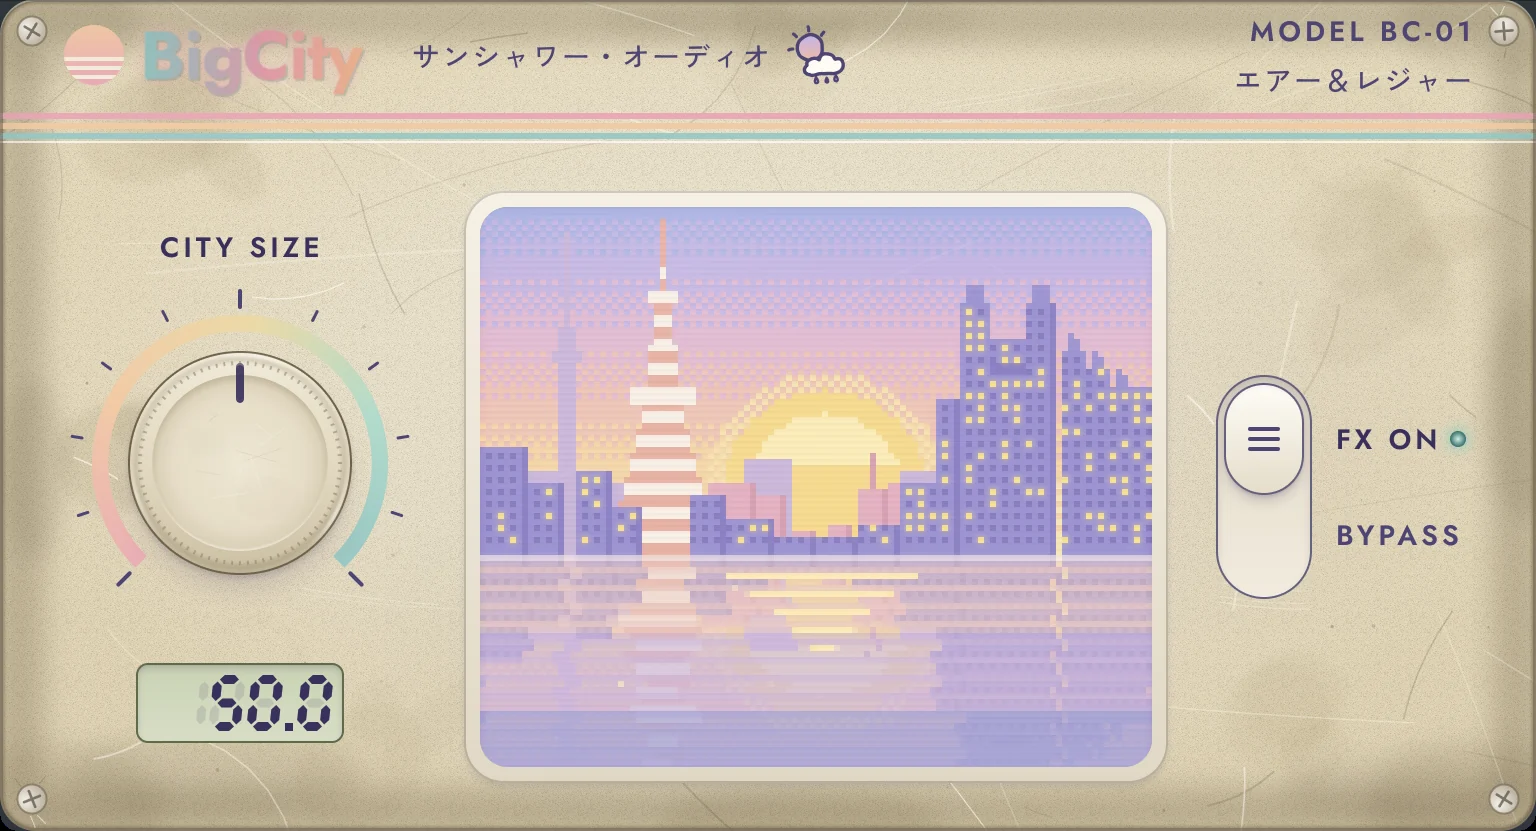
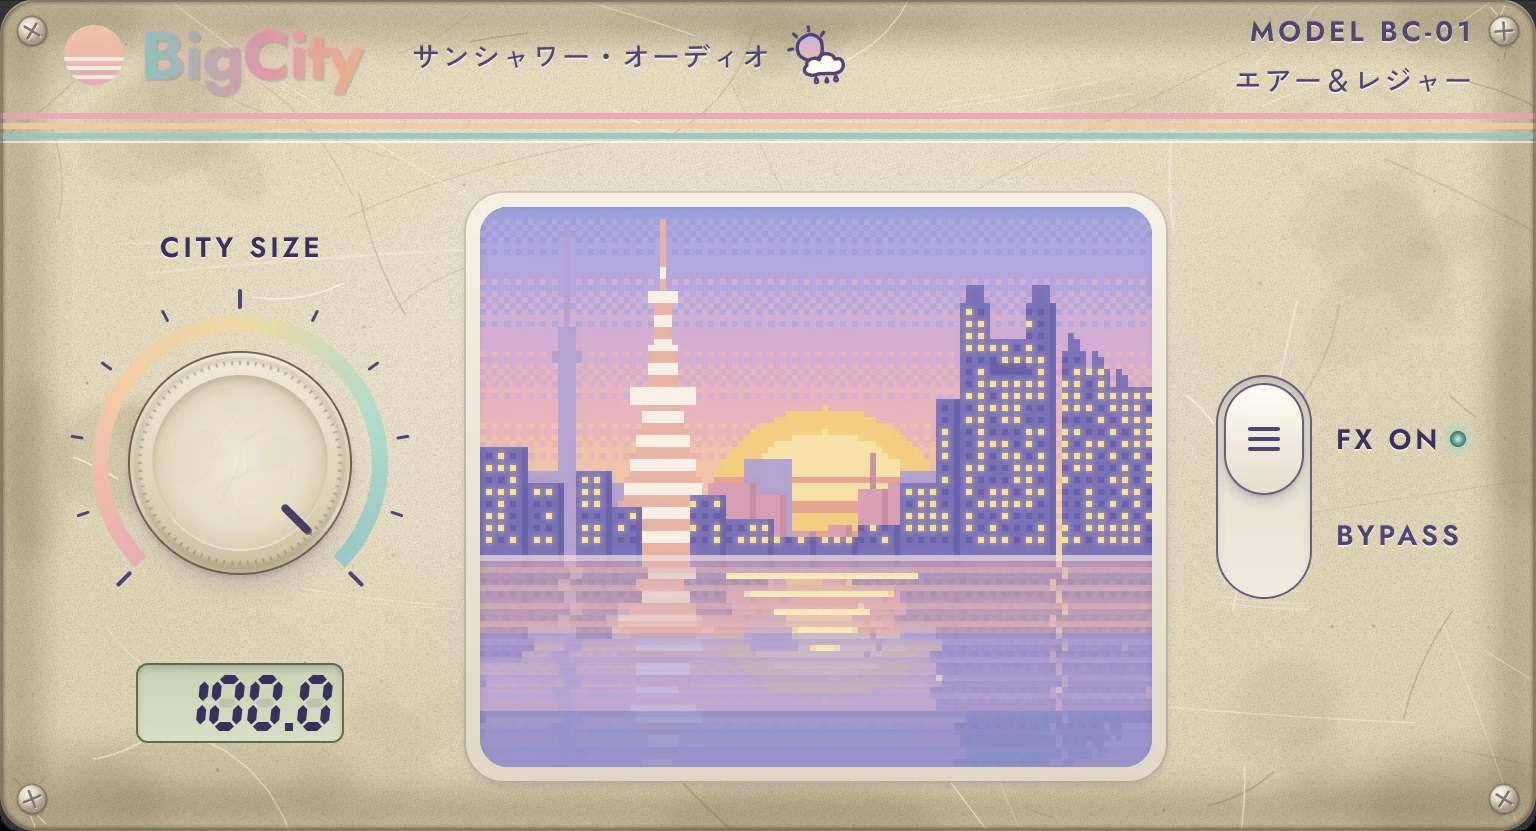
BigCity 1.1: knob-response chart, tuning rounds, 1.1 screenshot, 135 tests, Vaperror quote; diagram no longer claims de-essing
Claude-Session: https://claude.ai/code/session_013QhMjwoRSaqU5W5hH2ffq1

diff --git a/src/content/work/bigcity.md b/src/content/work/bigcity.md
@@ -37,7 +37,7 @@ Music production is complex at every layer: the idea, the sound design, the soft
 If a track sounds dull and I want it to shine a bit more, it can take 3–4 plugins and 10+ knobs for one texture. The CPU adds up on older laptops, some of those plugins are $100–200, and by the time it sounds right the momentum I had is gone. Slate Digital's [Fresh Air](https://slatedigital.com/fresh-air/) gets closer, but it's still two knobs.
 
 <figure>
-  <img src="/work/bigcity/02b-workflow.webp" alt="Adding air to one track today takes four plugins in a chain, and each fix creates the next problem. An EQ high shelf at 10 to 12 kHz makes the S's harsh. A de-esser fixes that but makes it sound narrow. A width plugin fixes that but makes it louder. A gain match and A/B by ear checks whether it's better or just louder. Repeat on every track: 3 to 4 plugins, 10+ knobs, $100 to 200 per plugin, and CPU that adds up on older laptops. Root cause: air is three small moves, and today each one lives in a different plugin with its own UI. BigCity: one knob does all three (high shelf, micro-shift width and loudness match) with no harsh S's." width="1920" height="1040" loading="lazy" decoding="async">
+  <img src="/work/bigcity/02b-workflow.webp" alt="Adding air to one track today takes four plugins in a chain, and each fix creates the next problem. An EQ high shelf at 10 to 12 kHz makes the S's harsh. A de-esser fixes that but makes it sound narrow. A width plugin fixes that but makes it louder. A gain match and A/B by ear checks whether it's better or just louder. Repeat on every track: 3 to 4 plugins, 10+ knobs, $100 to 200 per plugin, and CPU that adds up on older laptops. Root cause: air is three small moves, and today each one lives in a different plugin with its own UI. BigCity: one knob does all three (high shelf, micro-shift width and loudness match)." width="1920" height="1040" loading="lazy" decoding="async">
   <figcaption>Adding air today, and what BigCity replaces.</figcaption>
 </figure>
 
@@ -71,9 +71,14 @@ I talked to 10+ producers across backgrounds and skill levels. Nobody asked for 
   <figcaption>One knob, three parameters.</figcaption>
 </figure>
 
-**Tune by ear, not by number:** The one-knob part of my hypothesis held up. What I got wrong was how strong it should be. In beta testing, 50 (the default) sounded too subtle. Instead of just turning the number up, I rendered one of my own tracks through three stronger curves and kept the one that held up on studio monitors, laptop speakers, and earbuds: it bends the knob so 50 sounds like the old 70. After launch, testers still found it too subtle on some tracks, even at 100, so 1.1 doubles the range: the new 50 is 1.0's 100.
+**Tune by ear, not by number:** The one-knob part of my hypothesis held up. What I got wrong was how strong it should be. In beta testing, 50 (the default) sounded too subtle. Instead of just turning the number up, I rendered one of my own tracks through three stronger curves and kept the one that held up on studio monitors, laptop speakers, and earbuds: it bends the knob so 50 sounds like the old 70. All three were rendered on the beta loop and compared by ear; A sounded best, and it was the only one that fixed the default without changing the top.
 
-<!-- Tune-by-ear chart (pre-beta, 1.0, 1.1) goes here once voicing-curves.csv arrives. Add the line on why curves B and C lost above. -->
+After launch, testers still found it too subtle on some tracks, even at 100. So 1.1 doubles the range: the new 50 is 1.0's 100. I tested three more voicings (Gentle, Medium and Literal double), and Medium won because it goes further at the top without warble or harshness.
+
+<figure>
+  <img src="/work/bigcity/04-knob-response.webp" alt="Line chart of air at 10 kHz by City size. Pre-beta is a straight line to +7.8 dB at 100, with +3.9 dB at 50. 1.0 bends upward to +5.5 dB at 50 and the same +7.8 dB at 100. 1.1 reaches +7.8 dB at 50 and +10.0 dB at 100." width="1920" height="960" loading="lazy" decoding="async">
+  <figcaption>Two rounds of tuning by ear: 1.0 bent the knob, and 1.1 doubled its range.</figcaption>
+</figure>
 
 **Nothing else on the panel:** No presets (one knob doesn’t need a preset browser) and no extra controls (every extra knob is a submenu waiting to happen).
 
@@ -89,8 +94,8 @@ My first Figma pass didn't feel great to look at and lacked the visual texture I
 </figure>
 
 <figure>
-  <img src="/work/bigcity/06-final-plugin.webp" alt="The BigCity 1.0 plugin: a City size knob, a pixel skyline display and an FX on/bypass switch." width="1536" height="831" loading="lazy" decoding="async">
-  <figcaption>BigCity 1.0.</figcaption>
+  <img src="/work/bigcity/06-final-plugin.webp" alt="The BigCity 1.1 plugin at City size 100: the knob turned all the way up, a dusk skyline with lit windows, and the FX on/bypass switch." width="1536" height="831" loading="lazy" decoding="async">
+  <figcaption>BigCity 1.1.</figcaption>
 </figure>
 
 <figure>
@@ -136,7 +141,7 @@ I built BigCity as a VST3 so it could work beyond Ableton. Since that cost extra
 Nothing shipped without passing:
 
 - pluginval, the industry-standard plugin validator, at its strictest level
-- 124 automated tests, including proof that City size 0 leaves audio untouched at every sample rate from 44.1 to 192 kHz
+- 135 automated tests, including proof that City size 0 leaves audio untouched at every sample rate from 44.1 to 192 kHz
 - A CPU benchmark on every change (final: ~0.9% per instance on an M4 Max)
 - Apple code signing and notarization, so it installs without Gatekeeper warnings
 
@@ -163,7 +168,7 @@ Claude Code was great for v1.0 but it’s no substitute for judgment in a niche 
 
 BigCity launched on [Gumroad](https://sunshoweraudio.gumroad.com/l/bigcity) on October 13, 2026, as pay-what-you-want, including $0. It's a small part of making a good song, so I wanted newer producers to be able to use it.
 
-Early signal is good. City pop producer “Unknown Caller” tried it on multiple tracks with no CPU hit and said, “All my homies hate two knobs.”
+Early signal is good. City pop producer “Unknown Caller” tried it on multiple tracks with no CPU hit and said, “All my homies hate two knobs.” [Vaperror](https://open.spotify.com/artist/0AEVuiJFczDd4dkmZh2Kha) called it “a stereoizer with a ‘smoother’ feel than Ableton Utility.”
 
 Back to the hypothesis: one knob, and every position sounds good. One knob held up; the strength took two rounds to get right. The engineering side holds up. Audio is untouched at 0, loudness stays close to matched across the dial, and the plugin is light enough to forget. Whether it keeps producers out of the rabbit hole is too early to call. The signal I care about most: producers sending me tracks that use it.
 
